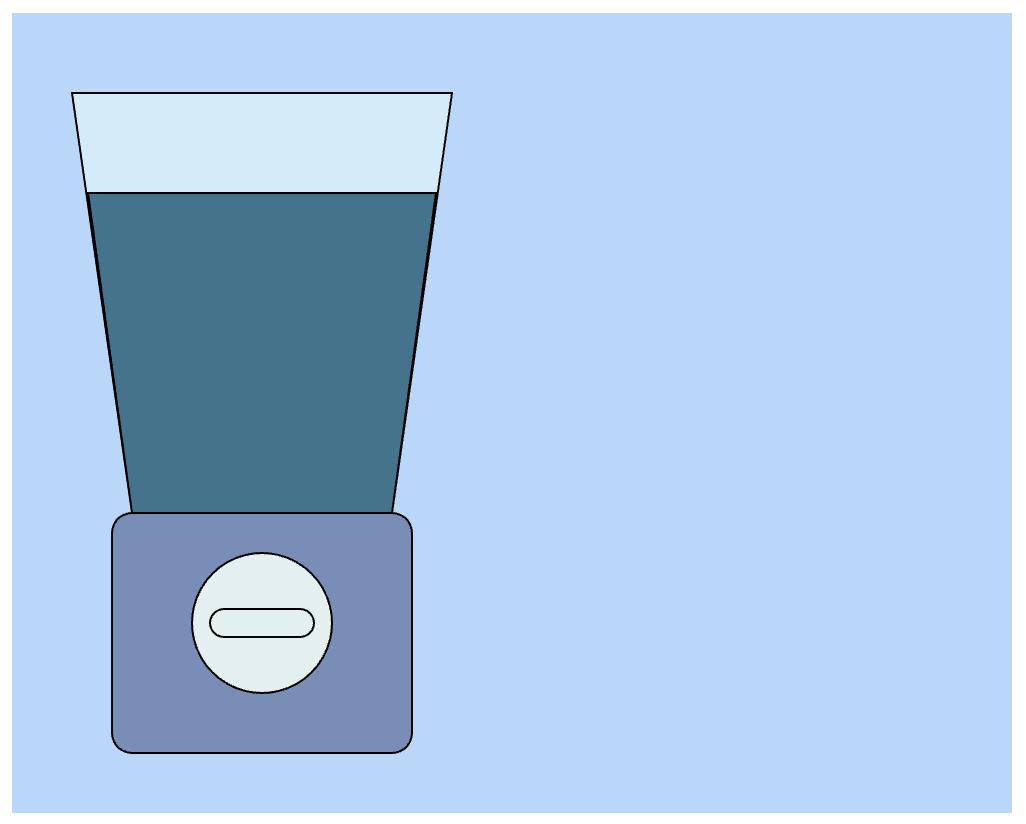
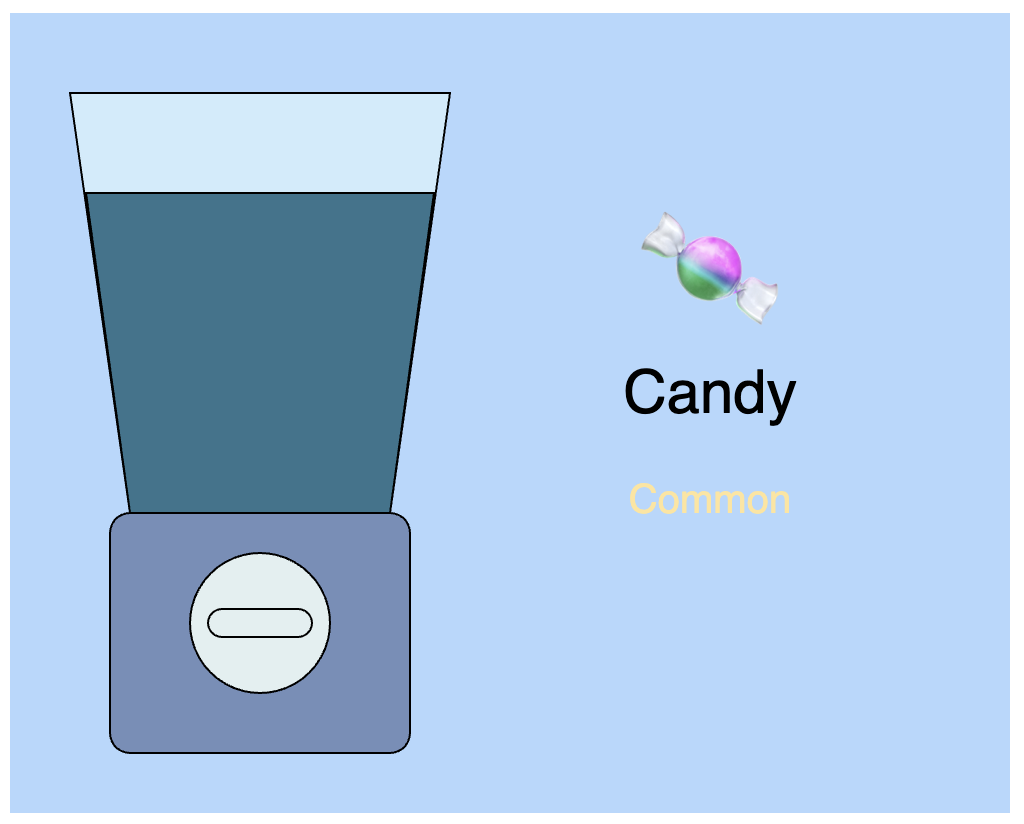
Reflective Journal entry

diff --git a/journals/20261006.md b/journals/20261006.md
@@ -1,0 +1,9 @@
+# Reflective Journel
+## 2026.10.06
+For Prototype 1, I wanted to do a character selection screen. I took it as an opportunity to test out how 3D models work in p5.js. I thought milk carton would be a fun starting point. Some of the challenges:
+- Apply different textures/colors to different faces of a box. I had to draw the box as individual faces with vertices so I can assign textures individually.
+- Having 3D and 2D elements at the same time. At one point, the arrows (next/previous buttons) would turn and move as I interact with the 3D milk carton...I solved it with resetting the camera and pespective before I draw the arrows.
+
+For Prototype 2 & 3, I wanted to test out game mechanics. I didn't get to do everything I have envisioned, but I made sure to have one mechanic ready for future development, maybe I can continue in the next week...
+- For prototype 2 (gacha machine), I wanted to add animation to simulate the machines in real life
+- For prototype 3 (mushroom), I initially wanted to do a catcher game - a girl trying to catch good mushrooms and avoid poisonous mushrooms. I tend to take my sweet time with my 1st prototype every week and rush through the rest... so I ended up doing a RPG game mechanic (which is just moving and collision detection).
